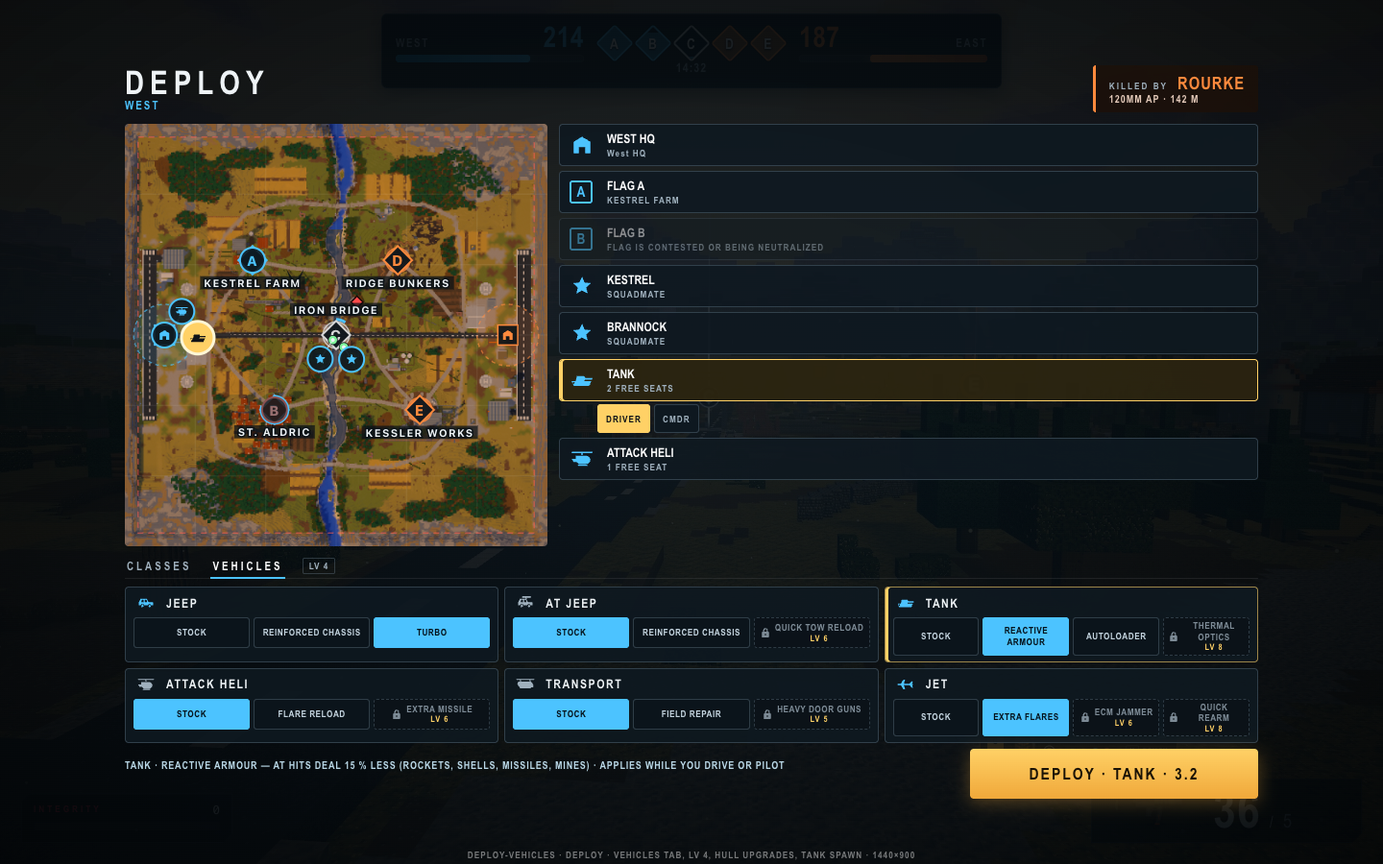
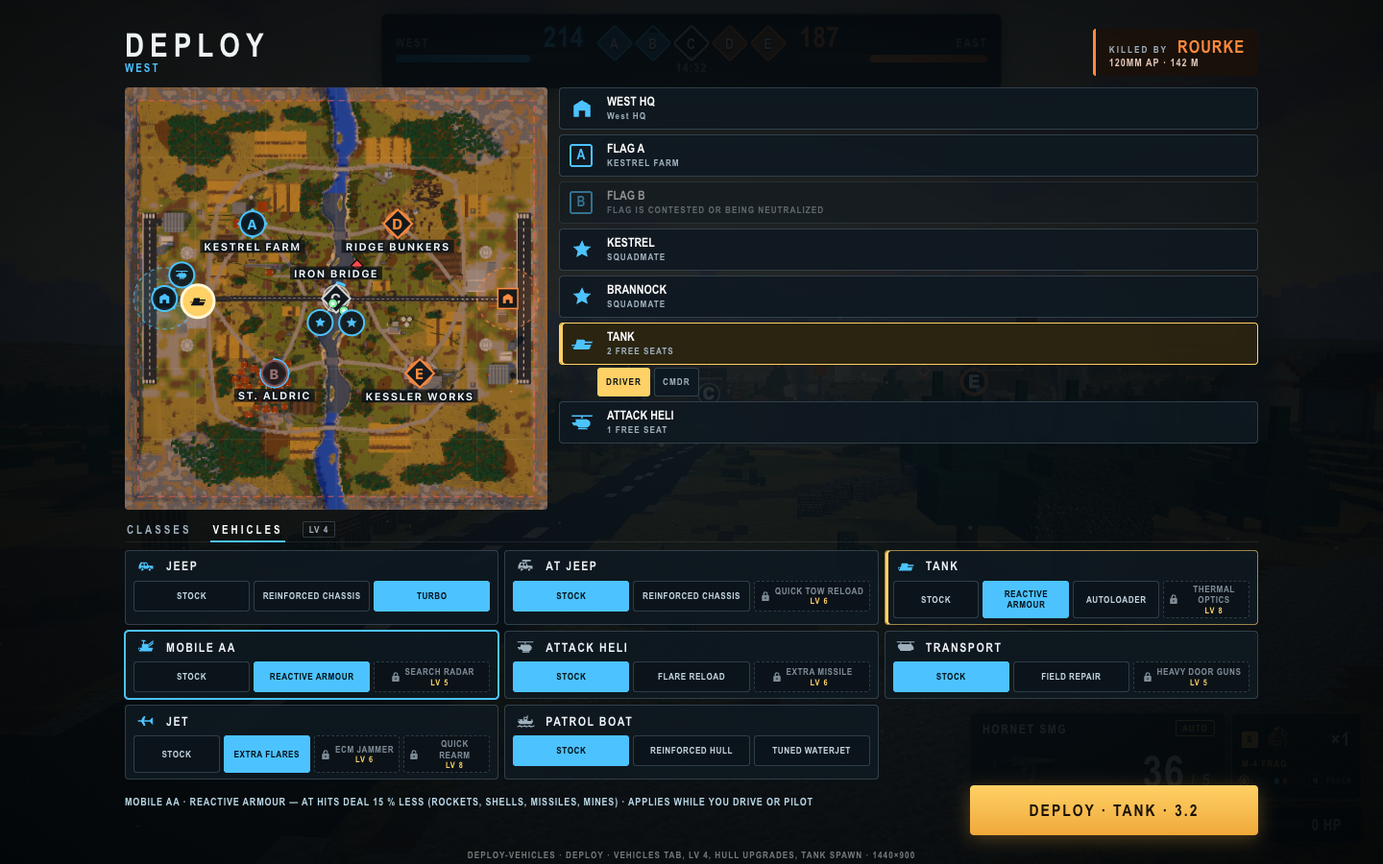
Conquest upgrades: mobile AA and patrol boat hulls, VEHICLES tab on the pad and keys
The mobile AA gets REACTIVE ARMOUR (LV 2) and SEARCH RADAR (LV 5, crew
spots at 450 m for 8 s in any weather), the patrol boat REINFORCED HULL
(LV 2) and TUNED WATERJET (LV 4, 20 -> 24 m/s, the boat stepper takes the
same `tune` as the jeep's). Bots drive REACTIVE / REINFORCED; both hulls
join UPGRADE_MENU_ORDER beside their kin.

The deploy screen's VEHICLES tab now works without a mouse: pad Y flips
CLASSES / VEHICLES, LT / RT move a focus ring between the hull cards and
LB / RB step the focused hull through STOCK and its open upgrades; the
keyboard mirrors it (arrows, C / V, Q / E). Captures refreshed.

Changed region(s): [[0.0625, 0.0311, 0.9375, 0.9956], [0.7812, 0.0311, 0.9062, 0.1244]]

diff --git a/public/js/ui/conquest/deploy-screen.js b/public/js/ui/conquest/deploy-screen.js
@@ -60,6 +60,8 @@ export class DeployScreen {
     this.focusKit = null;
     /** Upgrade chip under the pointer or focus (`{type, id}`), and the strip tab on show. */
     this.focusUpgrade = null;
+    /** Hull card the gamepad / keyboard works on in the VEHICLES tab (a type, null until the first step). */
+    this.padHull = null;
     this.tab = loadPref(TAB_PREF, 'class') === 'vehicles' ? 'vehicles' : 'class';
     this.root = el('section', 'cq-deploy', parent);
     this.root.hidden = true;
@@ -138,7 +140,7 @@ export class DeployScreen {
 
   setOpen(open, killerInfo = null) {
     const next = !!open;
-    if (next && !this.open) { this.readied = false; this.refused = null; this._resend = false; this.lockNote = null; this.focusKit = null; this.focusUpgrade = null; this.announceKits.clear(); }
+    if (next && !this.open) { this.readied = false; this.refused = null; this._resend = false; this.lockNote = null; this.focusKit = null; this.focusUpgrade = null; this.padHull = null; this.announceKits.clear(); }
     const opening = next && !this.open;
     this.open = next;
     this.root.hidden = !next;
@@ -250,10 +252,17 @@ export class DeployScreen {
     if (this.readied) this._resend = true;
   }
 
-  /** Gamepad: step the spawn (deployable options only) or the kit by `delta`, wrapping. */
+  /**
+   * Gamepad and keyboard: step the spawn (deployable options only) or the kit
+   * by `delta`, wrapping. In the VEHICLES tab `hull` moves the focus between
+   * the hull cards and `upgrade` steps the focused hull's pick through STOCK
+   * and its unlocked upgrades; `tab` flips CLASSES / VEHICLES.
+   */
   step(field, delta) {
     const model = this.model;
     if (!this.open || !model) return false;
+    if (field === 'tab') { this.setTab(this.tab === 'vehicles' ? 'class' : 'vehicles'); return true; }
+    if (field === 'hull' || field === 'upgrade') return this._stepUpgrade(field, delta);
     // Locked classes are skipped: LB / RB only step through classes the server accepts.
     const list = field === 'spawn' ? model.options.filter(option => option.ok) : field === 'kit' ? (model.kits || []).filter(card => card.unlocked !== false) : [];
     if (list.length < 2) return false;
@@ -262,6 +271,30 @@ export class DeployScreen {
     this.select(field === 'spawn' ? { spawn: next.spawn } : { kit: next.id });
     // Show the pick now; the next snapshot update rebuilds the model.
     this.model = deployModel({ ...this._modelArgs, selection: this.selection, refused: this.refused, unlocks: this.unlocks, career: this._careerView() }) || model;
+    this._render(this.model);
+    return true;
+  }
+
+  /** The VEHICLES half of step(): focus starts on the hull the picked spawn seats you in, else the first card. */
+  _stepUpgrade(field, delta) {
+    const cards = this.model.upgrades || [];
+    if (this.tab !== 'vehicles' || !cards.length) return false;
+    let index = cards.findIndex(card => card.type === this.padHull);
+    if (index < 0) index = Math.max(0, cards.findIndex(card => card.spawn));
+    else if (field === 'hull') index = (index + delta + cards.length) % cards.length;
+    const card = cards[index];
+    this.padHull = card.type;
+    this.focusUpgrade = null;
+    if (field === 'upgrade') {
+      // Locked chips are skipped, as LB / RB skip locked classes.
+      const options = card.options.filter(option => option.unlocked);
+      if (options.length < 2) { this._kitSig = ''; this._render(this.model); return true; }
+      const current = options.findIndex(option => option.selected);
+      const next = options[((current < 0 ? 0 : current) + delta + options.length) % options.length];
+      this.select({ upgrade: { type: card.type, id: next.id } });
+      this.model = deployModel({ ...this._modelArgs, selection: this.selection, refused: this.refused, unlocks: this.unlocks, career: this._careerView() }) || this.model;
+    }
+    this._kitSig = '';
     this._render(this.model);
     return true;
   }
@@ -360,7 +393,7 @@ export class DeployScreen {
       }
     }
     const upgradeSig = (model.upgrades || []).map(card => [card.type, card.selected, card.spawn, card.options.map(o => o.unlocked)]);
-    const kitSig = JSON.stringify([this.tab, model.kit, model.variant, model.gadget, model.kits.map(card => [card.unlocked, card.progress?.xp ?? null]), [...this.newKits], upgradeSig]);
+    const kitSig = JSON.stringify([this.tab, this.padHull, model.kit, model.variant, model.gadget, model.kits.map(card => [card.unlocked, card.progress?.xp ?? null]), [...this.newKits], upgradeSig]);
     if (kitSig !== this._kitSig) {
       this._kitSig = kitSig;
       this.kits.textContent = '';
@@ -417,6 +450,7 @@ export class DeployScreen {
       node.setAttribute('role', 'listitem');
       node.classList.toggle('is-spawn', card.spawn);
       node.classList.toggle('is-upgraded', !!card.selected);
+      node.classList.toggle('is-focus', card.type === this.padHull);
       const head = el('div', 'cq-upg-head', node);
       const icon = svgIcon(globalThis.document, card.type, 'cq-upg-icon');
       if (icon) head.appendChild(icon);
@@ -581,8 +615,9 @@ export class DeployScreen {
 
   /**
    * VEHICLES info line: a fresh locked-upgrade note, else the hovered or
-   * focused chip, else the hull the picked spawn seats you in, else the first
-   * hull carrying an upgrade. Every number comes from the upgrade table.
+   * focused chip, else the pick of the gamepad / keyboard hull, else the hull
+   * the picked spawn seats you in, else the first hull carrying an upgrade.
+   * Every number comes from the upgrade table.
    */
   _renderUpgradeInfo(model) {
     const cards = model.upgrades || [];
@@ -590,7 +625,8 @@ export class DeployScreen {
     if (this.lockNote) { text = this.lockNote; tone = 'warn'; }
     else {
       const focus = this.focusUpgrade;
-      const card = (focus && cards.find(c => c.type === focus.type)) || cards.find(c => c.spawn) || cards.find(c => c.selected) || null;
+      const card = (focus && cards.find(c => c.type === focus.type)) || cards.find(c => c.type === this.padHull) || cards.find(c => c.spawn)
+        || cards.find(c => c.selected) || null;
       const option = card && (focus && focus.type === card.type ? card.options.find(o => o.id === focus.id) : card.options.find(o => o.selected));
       text = card ? upgradeInfoText(card, option) : '';
     }

diff --git a/public/js/ui/conquest-hud.js b/public/js/ui/conquest-hud.js
@@ -215,6 +215,7 @@ export class ConquestHud {
     if (event.key === 'Escape' && this.bigMap.open) { this.toggleBigMap(false); return; }
     // Enter deploys from the deploy screen (gameplay input is closed while dead).
     if (this.dead && this.deploy.open && event.key === 'Enter') { this.deploy.deploy(); return; }
+    if (this.dead && this.deploy.open && this._deployKey(event)) { event.preventDefault?.(); return; }
     // Down on the deploy screen: the comm rose key calls a medic (gameplay input is closed while dead).
     if (this.dead && matchesBinding(event, 'commRose')) { this.callMedic(); return; }
     if (!this.inputEnabled()) return;
@@ -224,11 +225,35 @@ export class ConquestHud {
   }
 
   /**
+   * Deploy screen keys (gameplay input is closed while dead): the arrows up and
+   * down pick the spawn, left and right the class (CLASSES) or the focused
+   * hull's upgrade (VEHICLES); C / V open the CLASSES / VEHICLES tab and Q / E
+   * move the hull focus. Physical codes, like the gameplay bindings.
+   */
+  _deployKey(event) {
+    const vehicles = this.deploy.tab === 'vehicles';
+    switch (event.key) {
+      case 'ArrowUp': return this.deploy.step('spawn', -1);
+      case 'ArrowDown': return this.deploy.step('spawn', 1);
+      case 'ArrowLeft': return this.deploy.step(vehicles ? 'upgrade' : 'kit', -1);
+      case 'ArrowRight': return this.deploy.step(vehicles ? 'upgrade' : 'kit', 1);
+    }
+    switch (event.code) {
+      case 'KeyC': if (!vehicles) return false; this.deploy.setTab('class'); return true;
+      case 'KeyV': if (vehicles) return false; this.deploy.setTab('vehicles'); return true;
+      case 'KeyQ': return vehicles && this.deploy.step('hull', -1);
+      case 'KeyE': return vehicles && this.deploy.step('hull', 1);
+    }
+    return false;
+  }
+
+  /**
    * Gamepad Conquest actions from this frame's press edges (Input.padButtons).
    * Alive: D-pad right spots and R3 (unscoped) toggles the full map; seated,
    * D-pad up takes the next free seat, LB fires countermeasures, Y cycles
    * the seat weapon and D-pad down the camera view. Deploy screen: D-pad up/down pick the spawn, LB/RB the
-   * kit, A deploys. Interact (D-pad left) goes through VehicleController.padInteract.
+   * kit, Y flips CLASSES / VEHICLES, A deploys; in VEHICLES LT/RT move the hull focus and LB/RB step its
+   * upgrade. Interact (D-pad left) goes through VehicleController.padInteract.
    */
   padInput({ pressed = null, held = null, scoped = false, blocked = false } = {}) {
     if (!this.active || !pressed || blocked) { this._padRoseAt = null; return false; }
@@ -236,8 +261,12 @@ export class ConquestHud {
       if (!this.deploy.open) return false;
       if (pressed.slotUp) this.deploy.step('spawn', -1);
       if (pressed.grenadePouch) this.deploy.step('spawn', 1);
-      if (pressed.lastWeapon) this.deploy.step('kit', -1);
-      if (pressed.grenade) this.deploy.step('kit', 1);
+      const vehicles = this.deploy.tab === 'vehicles';
+      if (pressed.lastWeapon) this.deploy.step(vehicles ? 'upgrade' : 'kit', -1);
+      if (pressed.grenade) this.deploy.step(vehicles ? 'upgrade' : 'kit', 1);
+      if (vehicles && pressed.ads) this.deploy.step('hull', -1);
+      if (vehicles && pressed.fire) this.deploy.step('hull', 1);
+      if (pressed.weapon) this.deploy.step('tab', 1);
       if (pressed.jump) this.deployNow();
       // D-pad right (the rose's hold key) calls a medic while down.
       if (pressed.buy) this.callMedic();

diff --git a/shared/vehicle-upgrades.js b/shared/vehicle-upgrades.js
@@ -3,8 +3,8 @@
 // the effect hooks in server/sim) and the client deploy screen and vehicle
 // panel, so an upgrade always means the same numbers on both sides.
 //
-// The table is keyed by vehicle type name (not the wire index), so hull types
-// added later (an AA vehicle, a boat) only add a key. Within a type the list
+// The table is keyed by vehicle type name (not the wire index), so a hull
+// type added later only adds a key (the mobile AA and the patrol boat did). Within a type the list
 // order is the wire order of the vehicle row's `upg` (1-based, 0 stock):
 // append new upgrades at the end of a type's list.
 
@@ -29,7 +29,7 @@ const freeze = value => {
  * - `cmCharges` +n: extra countermeasure salvos, each on its own cooldown.
  * - `cmCooldown` scale: the countermeasure cooldown.
  * - `lockTime` scale: how long an enemy seeker needs to lock this hull.
- * - `speed` / `acceleration` scale: ground drive top speed and acceleration.
+ * - `speed` / `acceleration` scale: wheeled and boat drive top speed and acceleration.
  * - `spot` {range, ms, smoke}: manual spots by the hull's crew reach `range` m,
  *   last `ms` and (`smoke: true`) see through smoke.
  *
@@ -66,6 +66,15 @@ export const VEHICLE_UPGRADES = freeze({
     U('ecm', 'ECM JAMMER', 'ECM', 6, 'ENEMY LOCKS TAKE 50 % LONGER (STINGER 1.4 → 2.1 S, AA MISSILE 1.5 → 2.25 S)', { lockTime: 1.5 }),
     U('quick_rearm', 'QUICK REARM', 'QUICK REARM', 8, 'AA MISSILES RE-ARM 15 → 9 S · BOMBS 10 → 6 S', { rearm: { rails: 0.6, bombs: 0.6 } }),
   ],
+  aa: [
+    U('reactive', 'REACTIVE ARMOUR', 'REACTIVE', 2, 'AT HITS DEAL 15 % LESS (ROCKETS, SHELLS, MISSILES, MINES)', { damageTaken: { at: 0.85 } }),
+    U('search_radar', 'SEARCH RADAR', 'RADAR', 5, 'CREW SPOTS REACH 450 M IN ANY WEATHER AND LAST 8 S', { spot: { range: 450, ms: 8000 } }),
+  ],
+  boat: [
+    U('reinforced', 'REINFORCED HULL', 'REINFORCED', 2, 'TAKES 25 % LESS DAMAGE FROM BULLETS, BLASTS, FIRE AND CRASHES · AT STILL KILLS',
+      { damageTaken: { all: 0.75, at: 1 } }),
+    U('waterjet', 'TUNED WATERJET', 'WATERJET', 4, 'TOP SPEED 20 → 24 M/S · 25 % MORE ACCELERATION', { speed: 1.2, acceleration: 1.25 }),
+  ],
 });
 
 /**
@@ -74,10 +83,11 @@ export const VEHICLE_UPGRADES = freeze({
  */
 export const BOT_VEHICLE_UPGRADES = freeze({
   jeep: 'reinforced', jeep_at: 'reinforced', tank: 'reactive', helicopter: 'flare_reload', transport: 'field_repair', plane: 'extra_flares',
+  aa: 'reactive', boat: 'reinforced',
 });
 
 /** Deploy-screen order of the hull rows. Types missing here follow in table order. */
-export const UPGRADE_MENU_ORDER = freeze(['jeep', 'jeep_at', 'tank', 'helicopter', 'transport', 'plane']);
+export const UPGRADE_MENU_ORDER = freeze(['jeep', 'jeep_at', 'tank', 'aa', 'helicopter', 'transport', 'plane', 'boat']);
 
 /** Hull types that offer upgrades, in UPGRADE_MENU_ORDER. */
 export function upgradeTypes() {

diff --git a/shared/vehicle-handling/boat.js b/shared/vehicle-handling/boat.js
@@ -44,10 +44,12 @@ export const boatPlaning = speed => clamp((Math.abs(finite(speed)) - BOAT_RULES.
  * on the bed or a bank, `shallow` (0..1) the share over water shallower than
  * `shallowDepth`. Positive steer turns right, like the jeep.
  */
-export function stepBoatDrive(state, input = {}, dt, { wet = 1, aground = 0, shallow = 0 } = {}) {
+export function stepBoatDrive(state, input = {}, dt, { wet = 1, aground = 0, shallow = 0 } = {}, tune = null) {
   if (!state || !Number.isFinite(dt) || dt <= 0) return state;
   const R = BOAT_RULES;
-  state.speed = clamp(state.speed, -R.reverse, R.speed);
+  // `tune` scales the top speed and the acceleration (a waterjet upgrade, shared/vehicle-upgrades.js).
+  const top = R.speed * (tune?.speed > 0 ? tune.speed : 1), acceleration = R.acceleration * (tune?.acceleration > 0 ? tune.acceleration : 1);
+  state.speed = clamp(state.speed, -R.reverse, top);
   state.yaw = wrap(finite(state.yaw));
   state.course = wrap(finite(state.course, state.yaw));
   state.yawRate = clamp(finite(state.yawRate), -R.turn, R.turn);
@@ -65,13 +67,13 @@ export function stepBoatDrive(state, input = {}, dt, { wet = 1, aground = 0, sha
     if (brake > 0 || reversing) state.speed = approach(speed, 0, (R.brake * (brake || 1) + drag) * h);
     else if (throttle === 0) state.speed = approach(speed, 0, drag * h);
     else {
-      const limit = (throttle > 0 ? R.speed : R.reverse) * (1 - ground) + R.creep * ground;
+      const limit = (throttle > 0 ? top : R.reverse) * (1 - ground) + R.creep * ground;
       const hump = Math.abs(speed) > R.planeSpeed * 0.35 && Math.abs(speed) < R.planeSpeed ? R.humpAcceleration : 1;
       // Scraping over a ford caps the speed (part throttle below the cap is unchanged).
       const cap = limit + (Math.min(limit, R.shallowSpeed) - limit) * scrape;
       const target = Math.sign(throttle) * Math.min(Math.abs(throttle) * limit, cap);
       state.speed = Math.abs(speed) > Math.abs(target) ? approach(speed, target, drag * h)
-        : approach(speed, target, R.acceleration * hump * h);
+        : approach(speed, target, acceleration * hump * h);
     }
     // Waterjet steering: authority grows with the flow, a slow pivot at rest.
     const flow = clamp(Math.abs(state.speed) / R.turnSpeed, 0, 1) * (1 - ground);

diff --git a/server/sim/boat.js b/server/sim/boat.js
@@ -11,6 +11,7 @@ import { VEHICLE_RULES, vehicleDirection } from '../../shared/vehicles.js';
 import { VEHICLE_DAMAGE_RULES, WALL_CRASH_RULES, vehicleDef } from '../../shared/vehicle-defs.js';
 import { stepBoatDrive, boatAttitude } from '../../shared/vehicle-handling/boat.js';
 import { PHYSICS } from '../../shared/player-movement.js';
+import { upgradeScale } from '../../shared/vehicle-upgrades.js';
 
 const clamp = (n, lo, hi) => Math.max(lo, Math.min(hi, Number.isFinite(n) ? n : 0));
 const finite = (n, fallback = 0) => Number.isFinite(n) ? n : fallback;
@@ -85,7 +86,9 @@ export function advanceBoat(system, v, p, controls, dt) {
     && !system.fallSpeeds.has(v.id) && !system.infantryNear(v)) return;
   const here = boatSupport(system, v, v.x, v.z) ?? { wet: 0, aground: 1, shallow: 0 };
   const drive = v.disabled ? VEHICLE_DAMAGE_RULES.disabledDrive : 1;
-  stepBoatDrive(v, { throttle: controls.throttle * drive, steer: controls.steer, brake: controls.brake }, dt, here);
+  // A waterjet upgrade on the driver's hull (shared/vehicle-upgrades.js) raises the top speed and the acceleration.
+  stepBoatDrive(v, { throttle: controls.throttle * drive, steer: controls.steer, brake: controls.brake }, dt, here,
+    { speed: upgradeScale(v, 'speed'), acceleration: upgradeScale(v, 'acceleration') });
   v.boatWet = here.wet; v.boatAground = here.aground; v.boatShallow = here.shallow;
   if (!system.clearHull(v, v.x, v.y, v.z)) { v.yaw = previous.yaw; v.course = previous.yaw; v.yawRate = 0; }
   const course = vehicleDirection(v.course ?? v.yaw), x = v.x + course[0] * v.speed * dt, z = v.z + course[2] * v.speed * dt;

diff --git a/public/js/capture/conquest-hud-fixtures.js b/public/js/capture/conquest-hud-fixtures.js
@@ -544,7 +544,8 @@ export function conquestHudFixtures() {
     const self = meAt(C.x, C.z, { hp: 0, state: 'dead', respawnAt: FIXTURE_NOW + 3200, cq: { squad: 1, kitId: 'engineer' } });
     out.push(state('deploy-vehicles', 'Deploy · VEHICLES tab, LV 4, hull upgrades, tank spawn', { self, players: deployRoster(self), vehicles: [tankRow, heliRow],
       match: deployMatch(), dead: true, killer: { name: 'Rourke', weaponName: '120MM AP', distance: 142 },
-      selection: { spawn: 'vehicle:alpha-tank:driver', kit: 'engineer', variant: 0, tab: 'vehicles', upgrades: { tank: 'reactive', jeep: 'turbo', plane: 'extra_flares', helicopter: 'extra_missile' } },
+      selection: { spawn: 'vehicle:alpha-tank:driver', kit: 'engineer', variant: 0, tab: 'vehicles', padHull: 'aa',
+        upgrades: { tank: 'reactive', jeep: 'turbo', plane: 'extra_flares', helicopter: 'extra_missile', aa: 'reactive' } },
       career: { xp: 1240, level: 4, levelStart: 900, nextLevel: 1600 },
       events: [{ kind: 'kit_unlocks', id: 'me', level: 4, unlocked: ['assault', 'medic', 'engineer', 'support', 'recon', 'pyro'], newly: [] }],
       camera: cam(C.x, 40, C.z, 0, -0.5) }));

diff --git a/public/styles/conquest.css b/public/styles/conquest.css
@@ -630,6 +630,8 @@ html:not(.vb-touch-mode) .vb-conquest-hud[data-vehicle-view="driver"] .cq-intera
 .cq-upg-hull { display: grid; align-content: start; gap: 5px; min-width: 0; padding: 6px 8px; border: 1px solid var(--cq-line); border-radius: 4px; background: #0e1820e6; }
 /* The hull the picked spawn seats you in. */
 .cq-upg-hull.is-spawn { border-color: #ffd16699; box-shadow: inset 3px 0 0 #ffd166; }
+/* The hull card the gamepad / keyboard steps (LT / RT or Q / E; LB / RB or the arrows pick its upgrade). */
+.cq-upg-hull.is-focus { outline: 2px solid var(--cq-own); outline-offset: -1px; }
 .cq-upg-head { display: flex; align-items: center; gap: 8px; min-width: 0; }
 .cq-upg-icon { flex: none; width: 26px; height: 20px; color: var(--cq-sub); }
 .cq-upg-hull.is-upgraded .cq-upg-icon { color: var(--cq-own); }

diff --git a/server/sim/vehicles.js b/server/sim/vehicles.js
@@ -43,7 +43,7 @@ const GROUND_STEPPERS = Object.freeze({
   wheeled: (v, input, dt, rules, tune) => stepJeepDrive(v, input, dt, tune),
   tracked: (v, input, dt, rules) => stepTankDrive(v, input, dt, rules),
 });
-/** Drive tuning of a hull's upgrade (a jeep's turbo); the tracked stepper ignores it. */
+/** Drive tuning of a hull's upgrade (a jeep's turbo); the tracked stepper ignores it (the boat's waterjet: server/sim/boat.js). */
 const groundTune = v => ({ speed: upgradeScale(v, 'speed'), acceleration: upgradeScale(v, 'acceleration') });
 const FLIGHT_STEPPERS = Object.freeze({
   rotor: (v, input, dt, def) => stepHelicopterFlight(v, input, dt, def.rules),

diff --git a/public/js/capture/conquest-hud-capture.js b/public/js/capture/conquest-hud-capture.js
@@ -152,6 +152,8 @@ async function render(id, { touch: touchMode = false } = {}) {
   lastArgs = args;
   conquest.update(args);
   if (state.dead) conquest.setDead(true, state.killer);
+  // The gamepad / keyboard focus ring on a VEHICLES hull card (`padHull`; opening the screen clears it).
+  if (state.selection) { conquest.deploy.padHull = state.selection.padHull ?? null; conquest.deploy._kitSig = ''; }
   if (state.bigMap) conquest.toggleBigMap(true);
   applyOrderStates(conquest, state);
   for (const ev of state.events) {

diff --git a/docs/conquest.md b/docs/conquest.md
@@ -383,7 +383,7 @@ Not simulated: STINGER and AA missile hit rates against flares, and live human p
 
 ### Vehicle upgrades
 
-Added 2026-10-20, contract v6. Each hull type has 2-3 upgrades that open with the career level; the mobile AA (`aa`) has no table entry yet, so it always drives stock and has no VEHICLES card. Pick one per type on the deploy screen's VEHICLES tab. The table is `VEHICLE_UPGRADES` in `shared/vehicle-upgrades.js`. It holds labels, hints, the unlock level and the effect multipliers, and every number below comes from it.
+Added 2026-10-20, contract v6. Each pad hull type has 2-3 upgrades that open with the career level (the mobile AA and the patrol boat since the wave's follow-up; the Support mortar, a deployable, has none). Pick one per type on the deploy screen's VEHICLES tab. The table is `VEHICLE_UPGRADES` in `shared/vehicle-upgrades.js`. It holds labels, hints, the unlock level and the effect multipliers, and every number below comes from it.
 
 | Hull | Upgrade | Unlock | Effect |
 |---|---|---|---|
@@ -394,6 +394,8 @@ Added 2026-10-20, contract v6. Each hull type has 2-3 upgrades that open with th
 | Tank | REACTIVE ARMOUR | LV 2 | `at` hits (rockets, shells, missiles, mines) deal 15 % less |
 | Tank | AUTOLOADER | LV 4 | main gun reload ×0.8 (AP 3.5 → 2.8 s) |
 | Tank | THERMAL OPTICS | LV 8 | every crew seat spots at 450 m for 8 s and through smoke |
+| Mobile AA | REACTIVE ARMOUR | LV 2 | as the tank |
+| Mobile AA | SEARCH RADAR | LV 5 | every crew seat spots at 450 m for 8 s in any weather (not through smoke) |
 | Attack heli | FLARE RELOAD | LV 3 | flare cooldown ×0.6 (18 → 10.8 s) |
 | Attack heli | EXTRA MISSILE | LV 6 | 3 guided missiles on the `atgm` rack instead of 2 |
 | Transport | FIELD REPAIR | LV 2 | Engineer repairs and self-regeneration restore ×1.5 |
@@ -401,13 +403,15 @@ Added 2026-10-20, contract v6. Each hull type has 2-3 upgrades that open with th
 | Jet | EXTRA FLARES | LV 3 | 2 flare salvos, each on its own cooldown |
 | Jet | ECM JAMMER | LV 6 | enemy AA locks on the jet (STINGER, AA missile) take ×1.5 as long |
 | Jet | QUICK REARM | LV 8 | AA missiles and bombs re-arm ×0.6 (15 → 9 s, 10 → 6 s) |
+| Patrol boat | REINFORCED HULL | LV 2 | as the jeep's REINFORCED CHASSIS |
+| Patrol boat | TUNED WATERJET | LV 4 | top speed ×1.2 (20 → 24 m/s), acceleration ×1.25 |
 
 - **Authority.** The pick rides the deploy intent as `upgrades` (`{type: id}`; an empty map means all stock, and no key keeps the stored picks). `ConquestUpgrades` (`server/modes/conquest/upgrades.js`) refuses an upgrade above the server-held career level with `deploy_refused {reason:'locked', vehicle, upgrade, level}`, the same gate as the classes. Otherwise it stores the map on the entity.
-- **Who it applies to.** Every tick, each live hull takes its **current driver's** upgrade (`v.upgrade`), so an upgrade never sticks to a hull. A gunner's or commander's pick never applies. Leaving the driver seat, or a bot taking over, returns the hull to that driver's pick or to stock. Thermal optics serve every crew seat once the driver has them.
-- **Where the effects act.** Damage taken and repair in `server/sim/vehicle-damage.js`. Reload, cooldown, rearm, magazine and door-gun damage in `server/sim/vehicle-mounts.js` via `server/sim/vehicle-upgrades.js`. Lock time and countermeasure charges and cooldown in `server/sim/vehicle-locks.js`. Turbo in the jeep stepper's `tune` argument (`GROUND_STEPPERS` in `server/sim/vehicles.js` hands the tracked stepper the hull's own rules instead, the tank's or the AA's). Thermal optics in `server/modes/conquest/spotting.js`.
+- **Who it applies to.** Every tick, each live hull takes its **current driver's** upgrade (`v.upgrade`), so an upgrade never sticks to a hull. A gunner's or commander's pick never applies. Leaving the driver seat, or a bot taking over, returns the hull to that driver's pick or to stock. Thermal optics and the AA's search radar serve every crew seat once the driver has them.
+- **Where the effects act.** Damage taken and repair in `server/sim/vehicle-damage.js`. Reload, cooldown, rearm, magazine and door-gun damage in `server/sim/vehicle-mounts.js` via `server/sim/vehicle-upgrades.js`. Lock time and countermeasure charges and cooldown in `server/sim/vehicle-locks.js`. Turbo in the jeep stepper's `tune` argument (`GROUND_STEPPERS` in `server/sim/vehicles.js` hands the tracked stepper the hull's own rules instead, the tank's or the AA's), the boat's waterjet in the same `tune` of `stepBoatDrive` (`server/sim/boat.js`). Thermal optics and the search radar in `server/modes/conquest/spotting.js`.
 - **Edge cases.** When a rack shrinks (the EXTRA MISSILE pilot leaves), the rounds above the stock rack move off it into the mount's `heldRearm`: loaded ones as ready, pending re-arms with their time left, which keeps counting down. When it grows again, the held rounds come back first; a rack with nothing held fills at once only if the stock rack was full and idle, otherwise the extra round re-arms on the rail timer. So hopping out and back in never refills a fired missile. Flare charges are per-slot ready times. The slot lost on exit is the latest one and is held (`cmHeld`) until a charge comes back, so the next pilot keeps an unspent salvo and hopping out and back in never refreshes a spent one.
-- **Bots** skip the gate and always drive `BOT_VEHICLE_UPGRADES`: jeep and AT jeep REINFORCED CHASSIS, tank REACTIVE ARMOUR, heli FLARE RELOAD, transport FIELD REPAIR, jet EXTRA FLARES.
-- **Presentation.** On the deploy screen, a CLASSES / VEHICLES tab pair with the server-announced "LV n" sits above the class strip. VEHICLES shows one card per hull type (`UPGRADE_MENU_ORDER`) with a chip row: STOCK plus the upgrades, locked ones dashed with a padlock and "LV n". The card of the hull the picked spawn puts you in has an amber edge. The picks and the tab are remembered (`vb-conquest-vehicle-upgrades`, `vb-conquest-deploy-tab`). The row's `upg` drives the vehicle panel's blue upgrade badge for every crew seat. Design: `docs/design/conquest/upgrades/`.
+- **Bots** skip the gate and always drive `BOT_VEHICLE_UPGRADES`: jeep and AT jeep REINFORCED CHASSIS, tank and mobile AA REACTIVE ARMOUR, heli FLARE RELOAD, transport FIELD REPAIR, jet EXTRA FLARES, patrol boat REINFORCED HULL.
+- **Presentation.** On the deploy screen, a CLASSES / VEHICLES tab pair with the server-announced "LV n" sits above the class strip. VEHICLES shows one card per hull type (`UPGRADE_MENU_ORDER`) with a chip row: STOCK plus the upgrades, locked ones dashed with a padlock and "LV n". The card of the hull the picked spawn puts you in has an amber edge. The hull a gamepad or the keyboard works on has a blue focus ring (from its first step; it starts on the spawn's hull; keys under *Controls*). The picks and the tab are remembered (`vb-conquest-vehicle-upgrades`, `vb-conquest-deploy-tab`). The row's `upg` drives the vehicle panel's blue upgrade badge for every crew seat. Design: `docs/design/conquest/upgrades/`.
 
 ### Bots riding with humans
 
@@ -558,7 +562,7 @@ KEYBOARD FLIGHT (`keyboard`) keeps the older layout: helicopter W/S tilt (assist
 
 **Resting off the gear.** A jet slower than 4 m/s that lies on a wingtip, its nose or its tail within 2 m of the ground (or stands tilted on its gear, wedged in a map corner) has no airflow over its control surfaces, and used to keep that attitude for good. It now tips back toward level at 1.5 rad/s, easing up and toward the map centre (at most 15 cm up and 1 m in) where the levelling wing would meet a voxel or the edge. The dug-in airframe does not slide while it is tilted and settles at no more than 2 m/s.
 
-On a gamepad, D-pad left works like T: a tap enters or exits and a hold revives or repairs. D-pad right spots on a tap and opens the comm rose when held for 0.3 s (the right stick picks, the release sends), and R3 toggles the full map when you are not scoped. In a vehicle, D-pad up switches to the next free seat, LB fires flares or smoke, Y selects the next weapon and D-pad down cycles the camera view (the grenade pouch stays shut while seated). On the deploy screen, D-pad up and down pick the spawn, LB and RB pick the kit and A deploys.
+On a gamepad, D-pad left works like T: a tap enters or exits and a hold revives or repairs. D-pad right spots on a tap and opens the comm rose when held for 0.3 s (the right stick picks, the release sends), and R3 toggles the full map when you are not scoped. In a vehicle, D-pad up switches to the next free seat, LB fires flares or smoke, Y selects the next weapon and D-pad down cycles the camera view (the grenade pouch stays shut while seated). On the deploy screen, D-pad up and down pick the spawn, LB and RB pick the kit, Y flips the CLASSES / VEHICLES tab and A deploys; on the VEHICLES tab LT and RT move the focus ring between the hull cards and LB and RB step the focused hull through STOCK and its unlocked upgrades (locked ones are skipped). The keyboard mirrors it: the up and down arrows pick the spawn, left and right the class or the focused hull's upgrade, C and V open CLASSES and VEHICLES, Q and E move the hull focus, and Enter deploys.
 
 ### Vehicle cameras
 
@@ -597,7 +601,7 @@ The weather changes during a match, and it changes play. The server draws one se
 | `mist` | FOG | × 0.55 | × 0.7 | × 0.62 | × 0.8 | 0.2 m/s | dense valley fog |
 | `storm` | STORM | × 0.7 | × 0.75 | × 0.72 | × 0.85 | 1.8 m/s | slate deck, rain, wet ground, lightning |
 
-- **Spot range** scales `spotRange` (300 m) and `spotRangeRecon` (400 m): in a storm an Assault spots out to 210 m, a Recon to 280 m. A hull's THERMAL OPTICS upgrade (450 m) sees through the weather as it sees through smoke, and the HUD tab shows that range to its crew.
+- **Spot range** scales `spotRange` (300 m) and `spotRangeRecon` (400 m): in a storm an Assault spots out to 210 m, a Recon to 280 m. A hull's THERMAL OPTICS or SEARCH RADAR upgrade (450 m) sees through the weather as it sees through smoke, and the HUD tab shows that range to its crew.
 - **Lock range** scales the STINGER (320 m) and the jet's AA missile (350 m) in `server/sim/vehicle-locks.js`; the Titanfall Archer is not affected. Countermeasures, lock time and the cone are unchanged.
 - **Bots** see less far and recognise a seen enemy more slowly (`server/bot-weather.js`, read by `observeBotTarget` / `observeBotVehicle` for infantry, crews and pilots). AA Engineers and air crews hold fire beyond the scaled lock range. The mobile AA's radar range is not scaled, but recognition through it still is.
 - **Canopy drift**: an open parachute drifts downwind on top of its glide and steering (`stepChuteVelocity`, server and client prediction).
@@ -814,7 +818,7 @@ Node suites (no browser):
 - `node tools/conquest-weather-test.mjs` (in `conquest:test`) covers the weather: the tables, seeded timeline, phases and forecast, the `wx` tuple, wetness, the stepper and its lightning (no backlog), the snapshot, `weather_strike` and `'off'`, the spot range in a storm, a STINGER that locks a helicopter at 280 m in clear weather but not in fog, bot sight and recognition, canopy drift, the HUD tab's ranges and wording, and the client view on a fake world (snap on join, easing, rain, wet ground, flash and thunder distance).
 - `node tools/conquest-guided-missile-test.mjs` (in `conquest:test`) covers the sight-guided missiles: the contract (version 6, `atgm` and `pintle` mounts, `jeep_at` as a jeep hull variant), a helicopter gunner who selects GUIDED MSL and steers it onto a tank 35° off the nose by swinging the chin sight after launch (`at`-class hit credited to the gunner), guidance ending when the gunner leaves so the missile flies on past, flares that do not decoy it, and the AT jeep's TOW (a tank hit, a jeep killed by one, the 3-round box and its reload).
 - `node tools/conquest-aa-test.mjs` (in `conquest:test`) covers the mobile AA: the v6 contract (`aa` hull, `medium` armour, `flak35`), armour and hits to kill, handling, the guns' elevation, barrel alternation and overheat, the proximity fuse (unit and in flight, friendly aircraft pass through), the Frontier pads and exit route, a bot crew shooting down a helicopter, commander crewing on Frontier with 24 bots, and the client radar, track, reticle and model.
-- `node tools/conquest-vehicle-upgrades-test.mjs` (in `conquest:test`) covers vehicle upgrades. It checks the table (types, unique ids, unlock levels, bot defaults, row codes, contract v6) and the strict `upgrades` parse. It checks the career gate (`deploy_refused` locked with `vehicle`/`upgrade`/`level`, stored picks, an empty map resets them) and the driver-only sync (a gunner's pick never applies, exit returns to stock, bots drive the default). It checks every effect on the authoritative hull, plus the deploy model, the VEHICLES tab (fake DOM: chips, lock text, stored picks, the deploy intent) and the panel badge.
+- `node tools/conquest-vehicle-upgrades-test.mjs` (in `conquest:test`) covers vehicle upgrades. It checks the table (types, unique ids, unlock levels, bot defaults, row codes, contract v6) and the strict `upgrades` parse. It checks the career gate (`deploy_refused` locked with `vehicle`/`upgrade`/`level`, stored picks, an empty map resets them) and the driver-only sync (a gunner's pick never applies, exit returns to stock, bots drive the default). It checks every effect on the authoritative hull (the AA's armour and radar and the boat's hull and waterjet included), plus the deploy model, the VEHICLES tab (fake DOM: chips, lock text, stored picks, the deploy intent, the gamepad and keyboard steps) and the panel badge.
 - `node tools/conquest-mortar-test.mjs` (in `conquest:test`) covers the Support mortar: the v6 contract and kit, the high-arc solve against flat range and slopes, the intent and its refusals (kit, state, cooldown, ground), placement, one mortar per player, rounds landing inside the blast of a target 150 m out and the operator's `mortarHE` kill, crushing by an enemy jeep (driver credit with `gadget_destroyed` and no vehicle points, stat or category, the operator survives, the 20 s cooldown), the wreck removal, no hijack and no deploy spawn, an owner leaving; the client controls (elevation clamp and direction), the MORTAR camera, the RMB snap onto spotted enemies only, the fire-control read model, the fading key hints, the banners, the drawn muzzle against `mountPose`; the ground going under a placed mortar; and a Support bot on Frontier that finds no mission in a lone spotted enemy or from in front of the target, places its mortar 160-220 m behind contested flag C, walks rounds onto two spotted enemies there, leaves when the mission dries up, and stays at its damaged mortar when it walks back to it later.
 - `node tools/conquest-vehicle-balance-test.mjs` (in `conquest:test`) pins the *Vehicle balance* audit: hits to kill for the pack weapons beside the RX-8, STINGER and AP shell, the TOW and GUIDED MSL cadence, ideal-operator hit rates on crossing hulls (a 20 m/s broadside jeep still evades most TOWs), the bot gunner on crossing tanks with no weapon switch while its missile rides, AT mines under a driven tank and jeep, and a bomb pass on a squad. The full report with the bot-match tally is `node tools/conquest-vehicle-balance.mjs`.
 - `node tools/conquest-jet-bomb-test.mjs` (in `conquest:test`) covers the jet stores: the contract (version 6; separate `rails` and `bombs` mounts since v5, `rails` and `bombs` mounts, no store mount left), cannon, missiles and bombs picked in the air with separate ammo and re-arm (bombs 10 s, missiles 15 s), the airborne-only release on the predicted impact, the 13 m blast (infantry at 4/8/11 m, jeeps at 3.6 and 12 m, a tank at 7 m), the crater, the burning field (cells on the crater floor and rim, pilot credit with `jetBomb`, a burn kill in about 4 s, no team damage, a jeep's 9/s and no tank damage, out after 8 s) and the AT deck hit.
